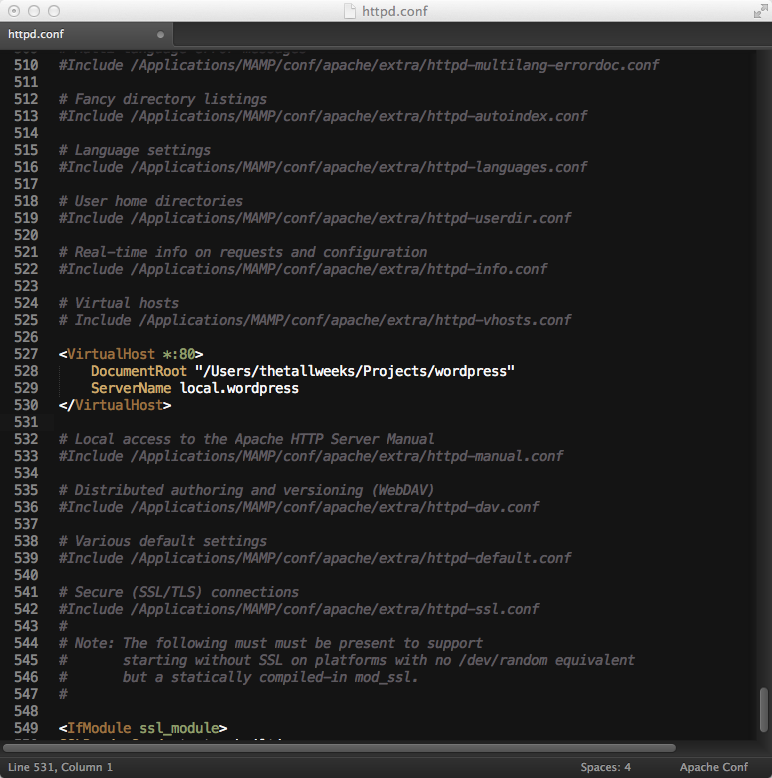
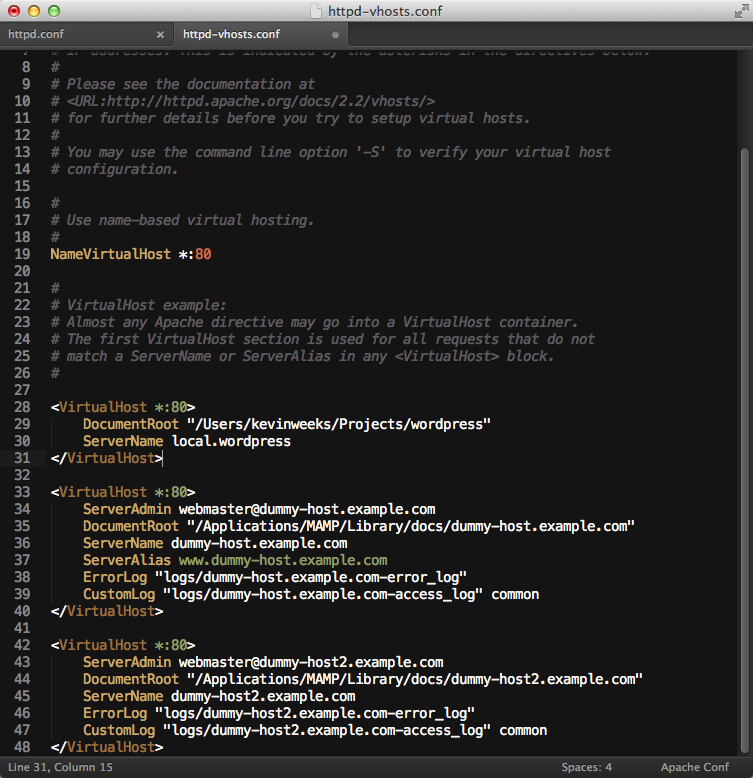
Fixing some errors in MAMP blog post, adding link to speed reading app in speed read work page

Changed region(s): [[0.0, 0.0, 1.0, 1.0], [0.9774, 0.1851, 1.0, 0.8946]]

diff --git a/_site/blog/2013/11/13/set-up-wordpress-locally-with-mamp.html b/_site/blog/2013/11/13/set-up-wordpress-locally-with-mamp.html
@@ -5,7 +5,7 @@
 <head>
   <meta charset="utf-8">
   <meta name="viewport" content="width=device-width">
-  <title>Set up Wordpress Locally with MAMP (Free) | Kevin Weeks | Designer and Front-End Developer</title>
+  <title>Set up WordPress Locally with MAMP (Free) | Kevin Weeks | Designer and Front-End Developer</title>
 
   <!-- Favicons -->
   <link rel="apple-touch-icon" sizes="57x57" href="/apple-touch-icon-57x57.png" />
@@ -46,14 +46,14 @@
 
 <article class="blog-post row">
   <section>
-    <h1>Set up Wordpress Locally with MAMP (Free)</h1>
+    <h1>Set up WordPress Locally with MAMP (Free)</h1>
     <h5 class="date">November, 13 2013</h5>
   </section>
   <section>
     
 <h2 id="step_1">Step 1</h2>
 
-<p>Download <a href="http://wordpress.org/download/">Wordpress</a>. Extract the zip and place the folder wherever you normally work on web sites - something like /User/username/Projects/wordpress</p>
+<p>Download <a href="http://wordpress.org/download/">Word{ress</a>. Extract the zip and place the folder wherever you normally work on web sites - something like /User/username/Projects/wordpress</p>
 
 <h2 id="step_2">Step 2</h2>
 
@@ -63,11 +63,13 @@
 
 <p>Open Applications/MAMP/conf/apache/httpd.conf in your text editor of choice.</p>
 
+<p>Uncomment the line that says:</p>
+<pre>Include /Applications/MAMP/conf/apache/extra/httpd-vhosts.conf</pre>
 <p><img class='frame' src='/img/mamp-httpd-conf.png' /></p>
 
-<p>Scroll to the bottom and add a virtual host entry using the proper path to your wordpress folder <strong>(DocumentRoot)</strong> and a url of your choosing <strong>(ServerName)</strong>.</p>
+<p>Now open httpd-vhosts.conf and add a virtual host entry using the proper path to your WordPress folder <strong>(DocumentRoot)</strong> and a url of your choosing <strong>(ServerName)</strong>. The file includes some example entries to use as a guide.</p>
 <div class='highlight'><pre><code class='aconf'><span class='nt'>&lt;VirtualHost</span> <span class='s'>*:80</span><span class='nt'>&gt;</span>
-  <span class='nb'>DocumentRoot</span> <span class='s2'>&quot;/Users/thetallweeks/Projects/wordpress&quot;</span>
+  <span class='nb'>DocumentRoot</span> <span class='s2'>&quot;/Users/kevinweeks/Projects/wordpress&quot;</span>
   <span class='nb'>ServerName</span> local.wordpress
 <span class='nt'>&lt;VirtualHost&gt;</span>
 </code></pre></div>
@@ -77,7 +79,9 @@
 
 <h2 id="step_4">Step 4</h2>
 
-<p>Add a new entry to your hosts file. Open <strong>Terminal</strong> and type:</p>
+<p>Add a new entry to your hosts file. Your hosts file exists whether or not you have MAMP installed, and is used to map hostnames to IP addresses.</p>
+
+<p>Open <strong>Terminal</strong> and type:</p>
 <div class='highlight'><pre><code class='bash'>sudo nano /etc/hosts
 </code></pre></div>
 <p>Go to the bottom of the file and add an entry:</p>
@@ -85,35 +89,43 @@
 </code></pre></div>
 <p><img class='frame' src='/img/mamp-new-host-entry.png' /></p>
 
-<p>Now open MAMP and go into Preferences. Set the <strong>Apache Port</strong> to 80 (to match the VirtualHost Entry) and click OK.</p>
+<p>This says that when you go to local.wordpress in your browser, it should send you to 127.0.0.1 (back to your computer). This just sends us back, but we need MAMP to handle the rest.</p>
+
+<p>Open MAMP and go into Preferences. Set the <strong>Apache Port</strong> to 80 (to match the VirtualHost Entry) and click OK.</p>
 
 <p><img class='frame' src='/img/mamp-preferences-port.png' /></p>
 
+<p>If the servers are running, click <strong>Stop Servers</strong>. You will know the servers are running if the two dots are green instead of red.</p>
+
+<p><img class='frame' src='/img/mamp-servers-running.png' /></p>
+
+<p>Click <strong>Start Servers</strong>. This should launch the start page, but if not, click <strong>Open start page</strong>.</p>
+
 <h2 id="step_5">Step 5</h2>
 
-<p>We’re getting close. Now Click <strong>Open Start Page</strong>, then <strong>phpMyAdmin</strong> at the top of the page. It should take you here:</p>
+<p>When you are on the start page, click <strong>phpMyAdmin</strong> at the top of the page. On this page, click <strong>databases</strong>.</p>
 
 <p><img class='frame' src='/img/mamp-php-myadmin.png' /></p>
 
-<p>Click <strong>databases</strong>, then create a new database. I named mine “wordpress”.</p>
+<p>Then create a new database by typing in a name and clicking <strong>Create</strong>. I named mine “wordpress”.</p>
 
 <p><img class='frame' src='/img/mamp-new-database.png' /></p>
 
-<p>In MAMP, click Stop Servers. Wait until both dots turn red, then click Start Servers. This ensures our recent changes take effect.</p>
+<p>In MAMP, click <strong>Stop Servers</strong>. Wait until both dots turn red, then click <strong>Start Servers</strong>. This ensures our recent changes take effect.</p>
 
 <h2 id="step_6">Step 6</h2>
 
-<p>Almost done! Now go to http://local.wordpress, or whatever you set as the name for your virtual host entry. Step through the wordpress setup (it is pretty straightforward).</p>
+<p>Almost done! Now go to http://local.wordpress, or whatever you set as the name for your virtual host entry. Step through the WordPress setup (it is pretty straightforward, but if you get stuck, WordPress has documentation <a href="http://codex.wordpress.org/Installing_WordPress#Famous_5-Minute_Install">here</a>).</p>
 
 <p><img class='frame' src='/img/mamp-wordpress-config.png' /></p>
 
-<p>Your database name is whatever you called the database in phpMyAdmin. By default, the user name and password for the database are <strong>root</strong> and <strong>root</strong>. Lastly, create your Wordpress admin user.</p>
+<p>Your database name is whatever you called the database in phpMyAdmin. By default, the user name and password for the database are <strong>root</strong> and <strong>root</strong>. Lastly, create your WordPress admin user.</p>
 
 <p><img class='frame' src='/img/mamp-wordpress-install.png' /></p>
 
-<p>Don’t forget to uncheck “Allow search engines to index this site.” And there you go. You now have Wordpress running on your local machine.</p>
+<p>And there you go. You now have WordPress running on your local machine.</p>
 
-<p>You can even set up other wordpress sites by <strong>creating separate VirtualHost entries</strong> in httpd.conf and /etc/hosts and creating separate databases.</p>
+<p>You can even set up other websites by <strong>creating separate VirtualHost entries</strong> in httpd-vhosts.conf and /etc/hosts and creating separate databases.</p>
 
 <p>The best part is, you did it all for free!</p>
 

diff --git a/work/_posts/2013-11-18-speed-read.html b/work/_posts/2013-11-18-speed-read.html
@@ -15,7 +15,10 @@ description: Blaze through articles with this simple speed reading app.
   </div>
 </section>
 <section>
-  <p>Just enter the text you want to read and choose the speed. You can even set the number of words to display at a time.</p>
+  <p>Just enter the text you want to read and choose the speed.
+    You can even set the number of words to display at a time.
+    <a href="http://kevinweeksdesign.com/speedread">Check it out!</a>
+</p>
 </section>
 <section>
   <div class="device iphone">

diff --git a/_site/blog/index.html b/_site/blog/index.html
@@ -50,9 +50,9 @@
   <ul>
     
       <li>
-        <h2><a href="/blog/2013/11/13/set-up-wordpress-locally-with-mamp.html">Set up Wordpress Locally with MAMP (Free)</a></h2>
+        <h2><a href="/blog/2013/11/13/set-up-wordpress-locally-with-mamp.html">Set up WordPress Locally with MAMP (Free)</a></h2>
         <h5 class="date">November, 13 2013</h5>
-        <p>Run Wordpress locally using MAMP</p>
+        <p>Run WordPress locally using MAMP</p>
       </li>
     
       <li>

diff --git a/_site/work/2013/11/18/speed-read.html b/_site/work/2013/11/18/speed-read.html
@@ -58,7 +58,10 @@
   </div>
 </section>
 <section>
-  <p>Just enter the text you want to read and choose the speed. You can even set the number of words to display at a time.</p>
+  <p>Just enter the text you want to read and choose the speed.
+    You can even set the number of words to display at a time.
+    <a href="http://kevinweeksdesign.com/speedread">Check it out!</a>
+</p>
 </section>
 <section>
   <div class="device iphone">

diff --git a/blog/_posts/2013-11-13-set-up-wordpress-locally-with-mamp.md b/blog/_posts/2013-11-13-set-up-wordpress-locally-with-mamp.md
@@ -1,12 +1,12 @@
 ---
 layout: post
 date: 2013-11-13
-title: Set up Wordpress Locally with MAMP (Free)
-teaser: Run Wordpress locally using MAMP
+title: Set up WordPress Locally with MAMP (Free)
+teaser: Run WordPress locally using MAMP
 ---
 
 ##Step 1
-Download [Wordpress](http://wordpress.org/download/). Extract the zip and place the folder wherever you normally work on web sites - something like /User/username/Projects/wordpress
+Download [Word{ress](http://wordpress.org/download/). Extract the zip and place the folder wherever you normally work on web sites - something like /User/username/Projects/wordpress
 
 ##Step 2
 Download [MAMP](http://www.mamp.info/en/downloads/). MAMP automatically comes with MAMP Pro (a free trial), but we can do everything we need without having to pay for MAMP Pro.
@@ -14,13 +14,17 @@ Download [MAMP](http://www.mamp.info/en/downloads/). MAMP automatically comes wi
 ##Step 3
 Open Applications/MAMP/conf/apache/httpd.conf in your text editor of choice.
 
+Uncomment the line that says: 
+
+<pre>Include /Applications/MAMP/conf/apache/extra/httpd-vhosts.conf</pre>
+
 <img class="frame" src="/img/mamp-httpd-conf.png">
 
-Scroll to the bottom and add a virtual host entry using the proper path to your wordpress folder **(DocumentRoot)** and a url of your choosing **(ServerName)**.
+Now open httpd-vhosts.conf and add a virtual host entry using the proper path to your WordPress folder **(DocumentRoot)** and a url of your choosing **(ServerName)**. The file includes some example entries to use as a guide.
 
 {% highlight aconf %}
 <VirtualHost *:80>
-  DocumentRoot "/Users/thetallweeks/Projects/wordpress"
+  DocumentRoot "/Users/kevinweeks/Projects/wordpress"
   ServerName local.wordpress
 <VirtualHost>
 {% endhighlight %}
@@ -30,7 +34,9 @@ Scroll to the bottom and add a virtual host entry using the proper path to your 
 The **:80** in VirtualHost indicates **port 80**. We'll also set this value in MAMP's preferences later.
 
 ##Step 4
-Add a new entry to your hosts file. Open **Terminal** and type:
+Add a new entry to your hosts file. Your hosts file exists whether or not you have MAMP installed, and is used to map hostnames to IP addresses.
+
+Open **Terminal** and type:
 
 {% highlight bash %}
 sudo nano /etc/hosts
@@ -44,32 +50,40 @@ Go to the bottom of the file and add an entry:
 
 <img class="frame" src="/img/mamp-new-host-entry.png">
 
-Now open MAMP and go into Preferences. Set the **Apache Port** to 80 (to match the VirtualHost Entry) and click OK.
+This says that when you go to local.wordpress in your browser, it should send you to 127.0.0.1 (back to your computer). This just sends us back, but we need MAMP to handle the rest.
+
+Open MAMP and go into Preferences. Set the **Apache Port** to 80 (to match the VirtualHost Entry) and click OK.
 
 <img class="frame" src="/img/mamp-preferences-port.png">
 
+If the servers are running, click **Stop Servers**. You will know the servers are running if the two dots are green instead of red.
+
+<img class="frame" src="/img/mamp-servers-running.png">
+
+Click **Start Servers**. This should launch the start page, but if not, click **Open start page**.
+
 ##Step 5
-We're getting close. Now Click **Open Start Page**, then **phpMyAdmin** at the top of the page. It should take you here:
+When you are on the start page, click **phpMyAdmin** at the top of the page. On this page, click **databases**.
 
 <img class="frame" src="/img/mamp-php-myadmin.png">
 
-Click **databases**, then create a new database. I named mine "wordpress".
+Then create a new database by typing in a name and clicking **Create**. I named mine "wordpress".
 
 <img class="frame" src="/img/mamp-new-database.png">
 
-In MAMP, click Stop Servers. Wait until both dots turn red, then click Start Servers. This ensures our recent changes take effect.
+In MAMP, click **Stop Servers**. Wait until both dots turn red, then click **Start Servers**. This ensures our recent changes take effect.
 
 ##Step 6
-Almost done! Now go to http://local.wordpress, or whatever you set as the name for your virtual host entry. Step through the wordpress setup (it is pretty straightforward). 
+Almost done! Now go to http://local.wordpress, or whatever you set as the name for your virtual host entry. Step through the WordPress setup (it is pretty straightforward, but if you get stuck, WordPress has documentation [here](http://codex.wordpress.org/Installing_WordPress#Famous_5-Minute_Install)). 
 
 <img class="frame" src="/img/mamp-wordpress-config.png">
 
-Your database name is whatever you called the database in phpMyAdmin. By default, the user name and password for the database are **root** and **root**. Lastly, create your Wordpress admin user. 
+Your database name is whatever you called the database in phpMyAdmin. By default, the user name and password for the database are **root** and **root**. Lastly, create your WordPress admin user. 
 
 <img class="frame" src="/img/mamp-wordpress-install.png">
 
-Don't forget to uncheck "Allow search engines to index this site." And there you go. You now have Wordpress running on your local machine. 
+And there you go. You now have WordPress running on your local machine. 
 
-You can even set up other wordpress sites by **creating separate VirtualHost entries** in httpd.conf and /etc/hosts and creating separate databases.
+You can even set up other websites by **creating separate VirtualHost entries** in httpd-vhosts.conf and /etc/hosts and creating separate databases.
 
 The best part is, you did it all for free!
